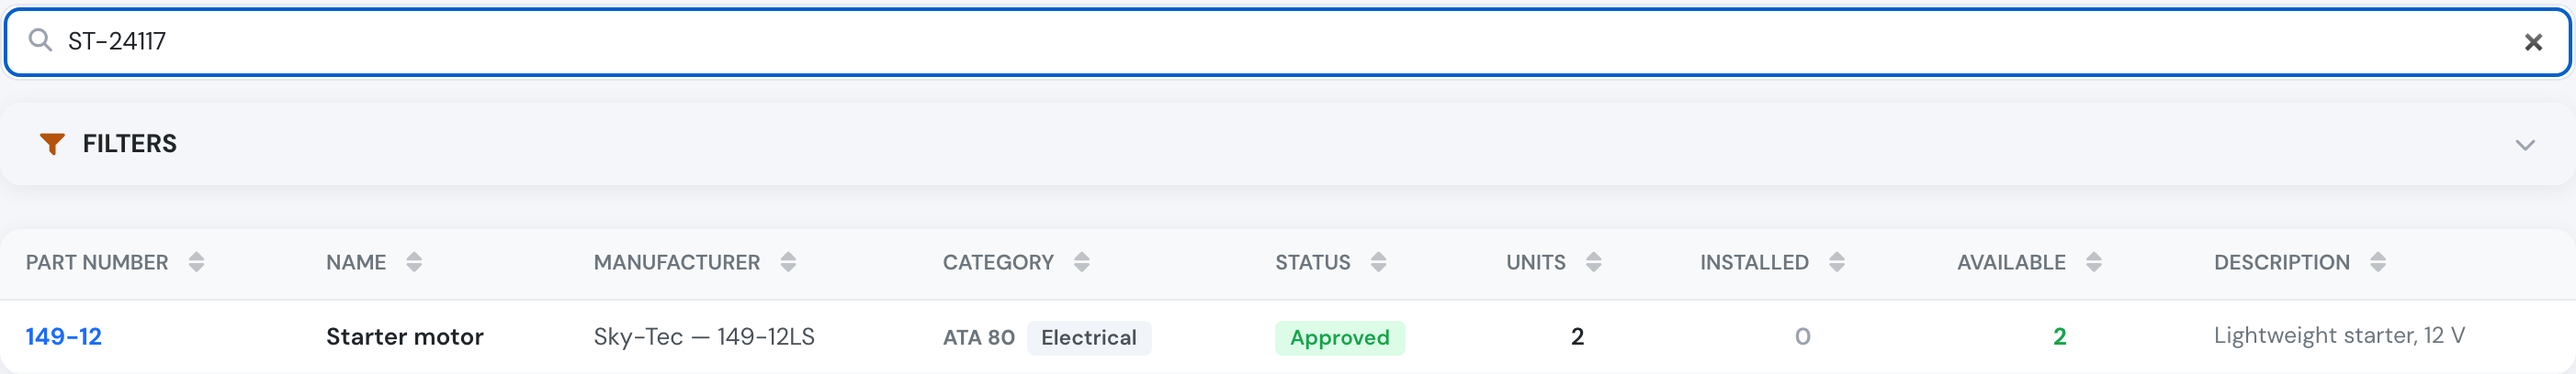
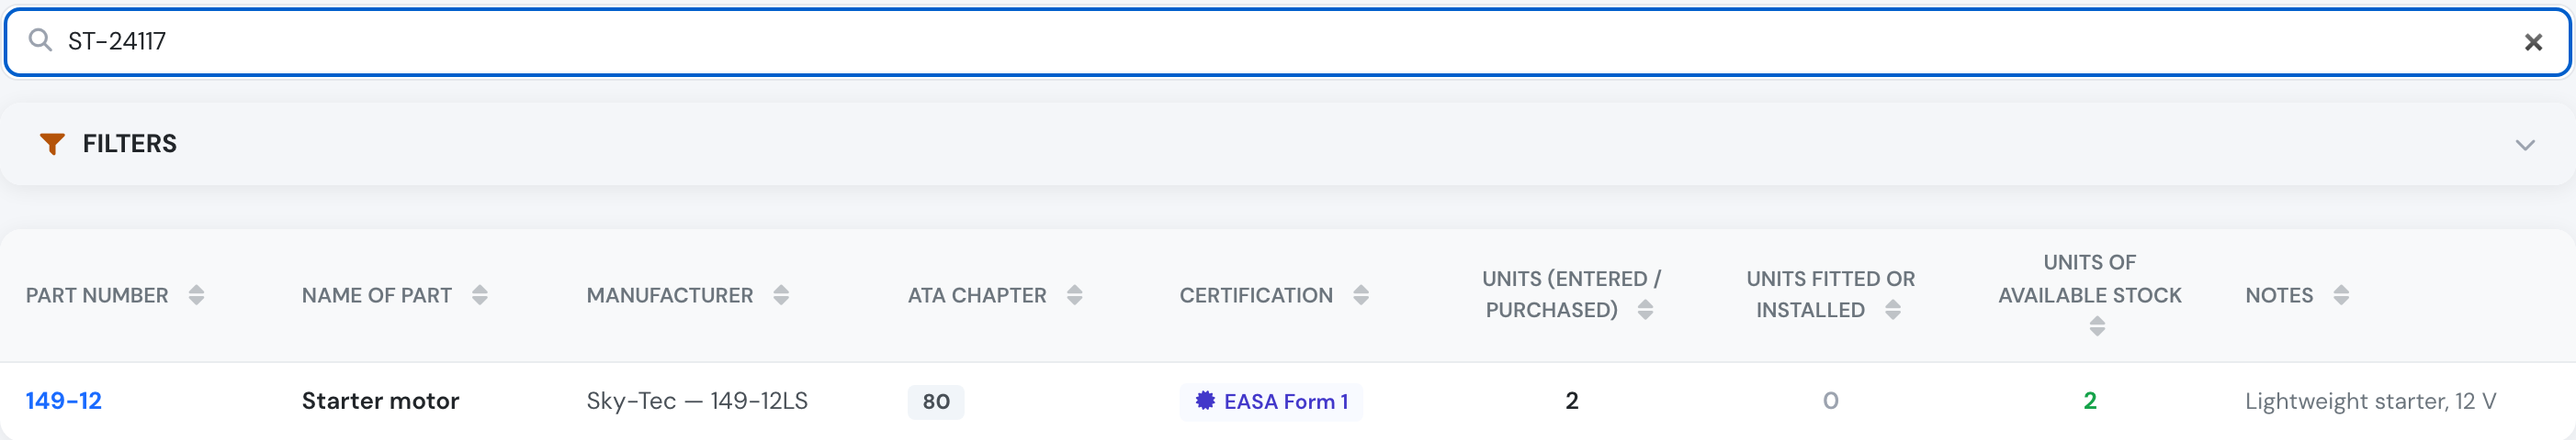
docs: inventory unit life, certification and installed parts; dispatch alternates

diff --git a/aircraft/aircraft-maintenance/inventory.md b/aircraft/aircraft-maintenance/inventory.md
@@ -12,40 +12,93 @@ The inventory tracking system is designed to help you manage and monitor the sta
 
 The system displays all part numbers in your catalog, and you can add the numbers available in your stock. These serial numbers can be linked to a specific company base, work order, or aircraft. This functionality allows you to track the location and status of each serial number, ensuring complete visibility and control over your inventory.
 
-### Stock counts
+### The inventory list
 
 {% embed url="https://youtu.be/sjiV_keHCOY" %}
 
-The inventory list shows three unit counts for each part:
+The inventory list shows one row per part:
 
-| Column | What it counts |
-|--------|----------------|
-| **Units** | Every unit you have recorded for the part |
-| **Installed** | Units whose status is *Installed* (fitted to an aircraft) |
-| **Available** | Units whose status is *Available*: the stock you can still issue from stores. Shown in red when it reaches 0 |
+| Column | What it shows |
+|--------|---------------|
+| **Part Number** | The part number |
+| **Name of part** | The part's name |
+| **Manufacturer** | Manufacturer and model |
+| **ATA Chapter** | The ATA chapter set on the part |
+| **Certification** | The release document the part comes with: EASA Form 1, FAA 8130-3, Certificate of Conformity… (see [Certification](#certification)) |
+| **Units (entered / purchased)** | Every unit you have recorded for the part |
+| **Units fitted or installed** | Units whose status is *Installed* (fitted to an aircraft) |
+| **Units of available stock** | Units whose status is *Available*: the stock you can still issue from stores. Shown in red when it reaches 0 |
+| **Notes** | Your notes on the part |
 
-<figure><img src="../../.gitbook/assets/inventoryStockList.png" alt="Inventory list with Units, Installed and Available columns"><figcaption><p>Units, Installed and Available for every part</p></figcaption></figure>
+Units in other statuses (Ordered, Received, Removed, Overhauled, Retired…) count towards *Units (entered / purchased)* only. Click any column header to sort by it.
 
-When you fit a unit to an aircraft, open the part, click the unit and pick the **Aircraft**: a unit that was *Available* becomes **Installed** automatically (you can also set the status yourself). Add the **Installation Date** and save. The unit then moves from *Available* to *Installed*, so the list always shows how much stock is left.
+<figure><img src="../../.gitbook/assets/inventoryStockList.png" alt="Inventory list with ATA chapter, certification and unit counts"><figcaption><p>The inventory list</p></figcaption></figure>
+
+### Stock counts
+
+When you fit a unit to an aircraft, open the part, click the unit and pick the **Aircraft**: a unit that was *Available* becomes **Installed** automatically (you can also set the status yourself). Add the **Installation Date** and save. The unit moves from *Units of available stock* to *Units fitted or installed*, so the list always shows how much stock is left.
 
 <figure><img src="../../.gitbook/assets/inventoryUnitInstall.png" alt="Edit Unit with the aircraft, installation date and a Certificate of Conformity"><figcaption><p>Installing a unit on an aircraft</p></figcaption></figure>
 
-The part page shows the same three counts above its units, and each installed unit shows its aircraft and installation date.
+The part page shows the same counts above its units, and each installed unit shows its aircraft and installation date.
 
 <figure><img src="../../.gitbook/assets/inventoryItemUnits.png" alt="Units card with one unit installed and one available"><figcaption><p>Units of a part after one was installed</p></figcaption></figure>
- Units in other statuses (Ordered, Received, Removed, Overhauled, Retired…) count towards *Units* only.
 
-If you set an ATA chapter on a part, the list shows it next to the category.
+### Life of a unit
+
+When a unit has a **Life Limit (Hours)** or **Life Limit (Cycles)**, the part page shows how much of it is used and how much is left, as text and as a bar:
+
+* **Green** while less than 75 % of the limit is used
+* **Amber** from 75 %
+* **Red** from 90 %, and when the limit is exceeded (the text then says by how much)
+
+<figure><img src="../../.gitbook/assets/inventoryUnitLifeHours.png" alt="Units with hours life bars, one amber and one green"><figcaption><p>Hours used and left, on an installed unit and on a spare</p></figcaption></figure>
+
+<figure><img src="../../.gitbook/assets/inventoryUnitLifeCycles.png" alt="Tyres with cycles life bars in red"><figcaption><p>Cycles close to the limit show in red</p></figcaption></figure>
+
+Life is counted from the aircraft's own hours and landings, so you never type them in by hand:
+
+* When a unit is **installed** (you pick the aircraft), Flylogs records the aircraft's **hours and cycles at installation**. If you set a past **Installation Date**, it takes the aircraft's figures at the end of that day.
+* While the unit is installed, the hours and cycles the aircraft flies count towards the unit's life.
+* When the unit is **removed** (you clear the aircraft, or change the status from *Installed*), the time it flew on that aircraft is added to its **Hours used before** and **Cycles used before**, so it keeps counting if it is refitted later, on the same aircraft or another one.
+
+For a used or overhauled part, enter the life it had already used in **Hours used before** and **Cycles used before** when you add it. If the aircraft figures at installation need correcting, edit the unit and change **Aircraft hours at installation** or **Aircraft cycles at installation**. Units that were installed before life tracking existed show a note until you enter them.
+
+### Installed parts on the aircraft page
+
+The aircraft page has an **Installed parts** card listing every unit installed on that aircraft, with:
+
+* the part, its part number, the unit's serial number and the ATA chapter
+* its **release document** (the unit's certificate type and number, or the part's certification when the unit has none)
+* its **installation date**
+* its **life left** in hours and cycles, with the same colour-coded bars as the part page
+* its **expiration**, if it has one: amber within 30 days, red once expired
+
+Parts that need attention come first: expired, or with red or amber life, then the rest by ATA chapter. Click a part to open it. The card is shown to users who can see maintenance, on plans that include it, and only when the aircraft has installed parts.
+
+<figure><img src="../../.gitbook/assets/aircraftInstalledParts.png" alt="Installed parts card on the aircraft page with life bars and an expiration warning"><figcaption><p>Installed parts on the aircraft page</p></figcaption></figure>
+
+### Change history
+
+The **Change History** on the part page lists everything that happened to the part and to each of its units, newest first: units added, edited, **installed**, **removed** and deleted, with who did it and when. Installations and removals also show the aircraft and its hours and cycles at that moment. A deleted unit keeps its history, under its serial number.
+
+<figure><img src="../../.gitbook/assets/inventoryChangeHistory.png" alt="Change history with a unit installed on EC-SKA at 4520:30 h"><figcaption><p>Part and unit history</p></figcaption></figure>
+
+### Certification
+
+Each part records the **Certification** it comes with: EASA Form 1, FAA 8130-3, JAA Form 1, TCCA Form 24-0078, ANAC SEGVOO 003, **Certificate of Conformity** (common for parts bought from distributors rather than the manufacturer) or Other. Set it with **Edit** on the part page. It is shown in the list, and you can filter the list by it.
+
+<figure><img src="../../.gitbook/assets/inventoryPartCertification.png" alt="Edit inventory item with the ATA chapter and certification"><figcaption><p>A part's ATA chapter and certification</p></figcaption></figure>
+
+Each unit also keeps its own release document, with the certificate number and date, because units of the same part can come from different sources. When you add a unit, its certificate type starts as the part's certification.
+
+The part's **Status** (Approved, Pending, Quarantined, Rejected, Expired…) is still kept on the part page and in the part form, and you can filter the list by it.
 
 ### Searching
 
-The search box above the list finds parts by part number, name, manufacturer, model, ATA chapter or description, and by the serial, batch, lot or certificate number of any of their units. Use **Filters** to narrow the list by category or approval status.
+The search box above the list finds parts by part number, name, manufacturer, model, ATA chapter, certification or notes, and by the serial, batch, lot or certificate number of any of their units. Use **Filters** to narrow the list by category, status or certification.
 
 <figure><img src="../../.gitbook/assets/inventorySearchSerial.png" alt="Searching the inventory by a unit serial number"><figcaption><p>Finding a part from a unit's serial number</p></figcaption></figure>
-
-### Release documents
-
-Each unit can record its release document: EASA Form 1, FAA 8130-3, JAA Form 1, TCCA Form 24-0078, ANAC SEGVOO 003, **Certificate of Conformity** (common for parts bought from distributors rather than the manufacturer) or Other, with the certificate number and date.
 
 ### Part details
 

diff --git a/API/inventory-units.md b/API/inventory-units.md
@@ -15,6 +15,7 @@ Retrieve a paginated list of inventory units for the company.
 | inventory | string | Filter by inventory item UUID |
 | workorder | string | Filter by work order UUID (empty string returns unassigned units) |
 | aircraft | number | Filter by aircraft ID |
+| status | string | Filter by unit status, e.g. `installed` (see enumerations) |
 | name | string | Search in part number, name, and serial number |
 | limit | number | Results per page (default 50, max 500) |
 
@@ -22,24 +23,50 @@ Retrieve a paginated list of inventory units for the company.
 
 ```json
 {
-  "items": {
-    "Oil filter": {
-      "e5f6a7b8-c9d0-1234-efgh-i12345678901": "SN-001234"
+  "items": [
+    {
+      "InventoryUnit": {
+        "id": "e5f6a7b8-c9d0-1234-efgh-i12345678901",
+        "inventory_id": "d4e5f6a7-b8c9-0123-defg-h12345678901",
+        "serial_number": "SN-001234",
+        "status": "installed",
+        "aircraft_id": "45",
+        "installation_date": "2026-01-15",
+        "expiration": "2027-12-22",
+        "certificate_type": "EASA Form 1",
+        "certificate_number": "F1-70017",
+        "life_limit_hours": "500.00",
+        "life_limit_cycles": null,
+        "installed_aircraft_seconds": "14905800",
+        "installed_aircraft_cycles": "10820",
+        "used_seconds": "0",
+        "used_cycles": "0"
+      },
+      "Inventory": {
+        "id": "d4e5f6a7-b8c9-0123-defg-h12345678901",
+        "deleted": false,
+        "name": "Dry air vacuum pump",
+        "part_number": "215CC",
+        "ata_chapter": "37",
+        "certification": "EASA Form 1"
+      },
+      "Aircraft": { "id": "45", "registration": "EC-ABC" },
+      "InventoryProvider": { "id": "f6a7b8c9-d0e1-2345-fghi-j12345678901", "name": "Aviation Parts Inc." }
     }
-  },
+  ],
   "paginate": {
     "page": 1,
-    "current": 10,
-    "count": 120,
+    "current": 1,
+    "count": 1,
     "prevPage": false,
-    "nextPage": true,
-    "pageCount": 3,
-    "limit": 50
+    "nextPage": false,
+    "pageCount": 1,
+    "limit": 500
   }
 }
 ```
 
-Note: items are grouped by inventory name, with unit ID as key and serial number as value.
+Units are ordered by serial number. The aircraft page in NEO calls this with `aircraft` and `status=installed` to list the installed parts, and computes each unit's life left from the aircraft's current hours and landings (see [Edit Unit](#edit-unit)).
 
 ---
 
@@ -71,9 +98,13 @@ Retrieve full details for a single inventory unit, including change history and 
       "base_id": "b1c2d3e4-f5a6-7890-bcde-f12345678901",
       "workorder_id": "b2c3d4e5-f6a7-8901-bcde-f12345678901",
       "life_limit_cycles": null,
-      "life_limit_hours": null,
+      "life_limit_hours": "500.00",
       "expiration": null,
       "installation_date": "2024-01-15",
+      "installed_aircraft_seconds": "16273800",
+      "installed_aircraft_cycles": "11230",
+      "used_seconds": "756000",
+      "used_cycles": "0",
       "last_inspection_date": "2024-04-25",
       "next_due_inspection": "2024-10-25",
       "remarks": "",
@@ -88,6 +119,11 @@ Retrieve full details for a single inventory unit, including change history and 
     "InventoryChange": [
       {
         "action": "INSTALL",
+        "inventory_id": "d4e5f6a7-b8c9-0123-defg-h12345678901",
+        "serial_number": "SN-001234",
+        "aircraft_id": "45",
+        "aircraft_seconds": "16273800",
+        "aircraft_cycles": "11230",
         "created": "1714003200",
         "User": {
           "id": "123",
@@ -129,7 +165,15 @@ Retrieve full details for a single inventory unit, including change history and 
 
 <mark style="color:green;">`POST`</mark> `/maintenance/unit/edit.json`
 
-Create or update an inventory unit. Changing `aircraft_id` automatically logs an INSTALL or REMOVE event.
+Create or update an inventory unit.
+
+A unit is **installed** when its `status` is `installed` and it has an `aircraft_id`. Saving a unit records its life and its history automatically:
+
+* **Installed** (not installed before, or moved to another aircraft): `installed_aircraft_seconds` / `installed_aircraft_cycles` are set to the aircraft's airframe time (whole seconds) and landings — at the end of `installation_date` when that date is in the past, otherwise now — unless you send them. An `INSTALL` history row is written with the aircraft and those figures.
+* **Removed** (status changed from `installed`, aircraft cleared, or moved): the time and landings flown since installation are added to `used_seconds` / `used_cycles`, the installation snapshot is cleared, `aircraft_id` is cleared when the unit is no longer installed, and a `REMOVE` row is written with the aircraft's figures at removal.
+* Any other save writes `ADD` (create) or `CNG` (edit).
+
+Life used = `used_*` + (aircraft now − `installed_aircraft_*`) while installed. NEO shows it against `life_limit_hours` / `life_limit_cycles`.
 
 #### Request Body
 
@@ -146,6 +190,10 @@ Create or update an inventory unit. Changing `aircraft_id` automatically logs an
 | InventoryUnit[workorder_id] | string | no | Associated work order UUID |
 | InventoryUnit[life_limit_cycles] | number | no | Life limit in cycles |
 | InventoryUnit[life_limit_hours] | number | no | Life limit in hours |
+| InventoryUnit[used_seconds] | number | no | Time used before the current installation, in whole seconds (earlier installations, or a used part) |
+| InventoryUnit[used_cycles] | number | no | Cycles used before the current installation |
+| InventoryUnit[installed_aircraft_seconds] | number | no | Aircraft airframe time at installation, in whole seconds. Empty = record automatically (or keep the stored value) |
+| InventoryUnit[installed_aircraft_cycles] | number | no | Aircraft landings at installation. Empty = record automatically (or keep the stored value) |
 | InventoryUnit[expiration] | string | no | Expiration date |
 | InventoryUnit[installation_date] | string | no | Installation date |
 | InventoryUnit[last_inspection_date] | string | no | Last inspection date |
@@ -173,15 +221,15 @@ Create or update an inventory unit. Changing `aircraft_id` automatically logs an
 
 ## Delete Unit
 
-<mark style="color:green;">`POST`</mark> `/maintenance/unit/delete.json`
+<mark style="color:green;">`POST`</mark> `/maintenance/unit/delete/{id}.json` (or `/maintenance/unit/delete.json` with `id` in the body). GET is refused (405).
 
-Delete an inventory unit. Requires manager role.
+Delete an inventory unit. Only user groups 1, 100, 105, 110 and 300 may delete. A unit that is installed on an aircraft or attached to a work order cannot be deleted (400): remove or detach it first. A `DEL` row is written to the part's history with the unit's serial number, and the unit's earlier history is kept.
 
-#### Request Body
+#### Request
 
 | Parameter | Type | Required | Description |
 |-----------|------|----------|-------------|
-| id | string | yes | Unit UUID |
+| id | string | yes | Unit UUID, in the URL or as POST data |
 
 #### Response
 

diff --git a/API/inventory.md b/API/inventory.md
@@ -43,7 +43,8 @@ Retrieve every inventory part for the company, ordered by part number. The list 
 |-----------|------|-------------|
 | category | string | Filter by part category |
 | status | string | Filter by approval status |
-| name | string | Keyword search in part number, name, manufacturer, model, ATA chapter and description, and in the serial, batch, lot and certificate numbers and remarks of the item's units |
+| certification | string | Filter by part certification (see Selectables `certifications`) |
+| name | string | Keyword search in part number, name, manufacturer, model, ATA chapter, certification and description, and in the serial, batch, lot and certificate numbers and remarks of the item's units |
 
 #### Response
 
@@ -59,6 +60,8 @@ Retrieve every inventory part for the company, ordered by part number. The list 
         "mfr_name": "Champion Aerospace",
         "category": "Engine",
         "approval_status": "Approved",
+        "certification": "EASA Form 1",
+        "ata_chapter": "79",
         "description": "Standard oil filter for Lycoming engines.",
         "deleted": false
       },
@@ -85,13 +88,15 @@ Retrieve every inventory part for the company, ordered by part number. The list 
 
 `InventoryUnit` lists the item's units that have not been deleted. The NEO list shows three counts from it: **Units** (all units), **Installed** (`status` = `installed`) and **Available** (`status` = `available`). Units in any other status (`ordered`, `received`, `removed`, `overhauled`, `retired`…) count towards Units only.
 
+`certification` is the release document the part comes with (`EASA Form 1`, `FAA 8130-3`, `JAA Form 1`, `TCCA Form 24-0078`, `ANAC SEGVOO 003`, `Certificate of Conformity`, `Other`), or `null`. The same values are accepted for `InventoryUnit.certificate_type`. NEO labels `description` as **Notes**.
+
 ---
 
 ## Selectables
 
 <mark style="color:blue;">`GET`</mark> `/maintenance/inventory/selectables.json`
 
-Retrieve available status and category values for building forms.
+Retrieve available status, category and certification values for building forms.
 
 #### Response
 
@@ -107,6 +112,15 @@ Retrieve available status and category values for building forms.
     "Under-review": "Under review",
     "Expired": "Expired",
     "Unapproved": "Unapproved"
+  },
+  "certifications": {
+    "EASA Form 1": "EASA Form 1",
+    "FAA 8130-3": "FAA 8130-3",
+    "JAA Form 1": "JAA Form 1",
+    "TCCA Form 24-0078": "TCCA Form 24-0078",
+    "ANAC SEGVOO 003": "ANAC SEGVOO 003",
+    "Certificate of Conformity": "Certificate of Conformity",
+    "Other": "Other"
   },
   "categories": {
     "Avionics": "Avionics",
@@ -142,6 +156,10 @@ Retrieve available status and category values for building forms.
 
 Retrieve full details for a single inventory part, including units, providers, and change history.
 
+`InventoryChange` is the history of the part **and of its units** (added `ADD`, edited `CNG`, deleted `DEL`, `INSTALL`, `REMOVE`), newest first, up to 500 rows. `model` tells whether a row is about the part (`Inventory`) or a unit (`InventoryUnit`, with its `serial_number` kept even after the unit is deleted). `INSTALL`/`REMOVE` rows carry the aircraft and its airframe time (`aircraft_seconds`, whole seconds) and landings at that moment.
+
+Each unit's `Aircraft` carries its current `hours` (decimal) and `landings`, so the unit's life can be computed: see [Edit Unit](inventory-units.md#edit-unit).
+
 #### Path Parameters
 
 | Parameter | Type | Description |
@@ -171,9 +189,17 @@ Retrieve full details for a single inventory part, including units, providers, a
     },
     "InventoryChange": [
       {
-        "id": "a7b8c9d0-e1f2-3456-ghij-k12345678901",
-        "action": "ADD",
+        "id": "912",
+        "model": "InventoryUnit",
+        "foreign_key": "e5f6a7b8-c9d0-1234-efgh-i12345678901",
+        "inventory_id": "d4e5f6a7-b8c9-0123-defg-h12345678901",
+        "serial_number": "SN-001234",
+        "action": "INSTALL",
+        "aircraft_id": "45",
+        "aircraft_seconds": "16273800",
+        "aircraft_cycles": "11230",
         "created": "1714003200",
+        "Aircraft": { "id": "45", "registration": "EC-ABC" },
         "User": {
           "id": "123",
           "UserDetail": {
@@ -192,12 +218,19 @@ Retrieve full details for a single inventory part, including units, providers, a
         "Base": {
           "name": "LEBL"
         },
+        "life_limit_hours": "500.00",
+        "installed_aircraft_seconds": "16273800",
+        "installed_aircraft_cycles": "11230",
+        "used_seconds": "0",
+        "used_cycles": "0",
         "Aircraft": {
           "id": "45",
           "registration": "EC-ABC",
           "active": true,
           "maintenance": true,
           "flight_count": "1200",
+          "hours": "4560.50000",
+          "landings": "11290",
           "AircraftModel": {
             "name": "C172",
             "AircraftManufacturer": {
@@ -229,7 +262,9 @@ Create or update an inventory part. When creating, an initial inventory unit is 
 | Inventory[mfr_name] | string | yes (create) | Manufacturer name |
 | Inventory[category] | string | yes (create) | Part category (see categories list) |
 | Inventory[approval_status] | string | no | Approval status |
-| Inventory[description] | string | no | Part description |
+| Inventory[ata_chapter] | string | no | ATA chapter (up to 10 characters) |
+| Inventory[certification] | string | no | Release document the part comes with, one of `certifications` from Selectables; send an empty value to clear it |
+| Inventory[description] | string | no | Part notes (shown as **Notes** in NEO) |
 | InventoryProvider[name] | string | no | Provider name (creates or links provider) |
 | InventoryUnit[serial_number] | string | no | Initial unit serial number |
 | InventoryUnit[status] | string | no | Unit status |

diff --git a/schedules/flight-dispatch-function.md b/schedules/flight-dispatch-function.md
@@ -128,6 +128,12 @@ The booking's briefing and the flight page list the NOTAMs for the departure and
 
 This is an automated reading to help you brief, not a replacement for it: **read every NOTAM before flight.**
 
+### **Alternate aerodromes**
+
+An alternate aerodrome is optional. Enter it in the **Alternate** field when you dispatch, or on the flight form itself, so a draft flight that was never booked can have one too. Two aerodromes fit in the field, separated by a space or a slash (for example `LEVS LEGT`).
+
+Once an alternate is set, the booking briefing and the flight page show its weather (METAR and TAF) and NOTAMs next to the departure and arrival, and the **Wx & NOTAMS** PDF export on the flight page includes it. Alternate NOTAMs are shown in full and are not ranked, so read all of them.
+
 ### **Remarks**
 
 1. If a schedule record is **published** and **dispatched** and the PIC is changed, the record will automatically be switched back to SCHEDULED and the associated flight will be unlinked.

diff --git a/aircraft/aircraft-maintenance/README.md b/aircraft/aircraft-maintenance/README.md
@@ -108,6 +108,10 @@ This message is an advisory, and the crew has the option to by-pass it.
 
 <figure><img src="../../.gitbook/assets/maintenanceOverDueMessage.png" alt="Aircraft maintenance required advisory message"><figcaption></figcaption></figure>
 
+### Installed parts
+
+The aircraft page also lists the parts installed on the aircraft, with their release document, installation date, life left and expiration. See [Inventory](inventory.md#installed-parts-on-the-aircraft-page).
+
 ### Maintenance prediction
 
 Flylogs will now predict based on previous maintenance records and aircraft utilization, when the next maintenance action will be required.
